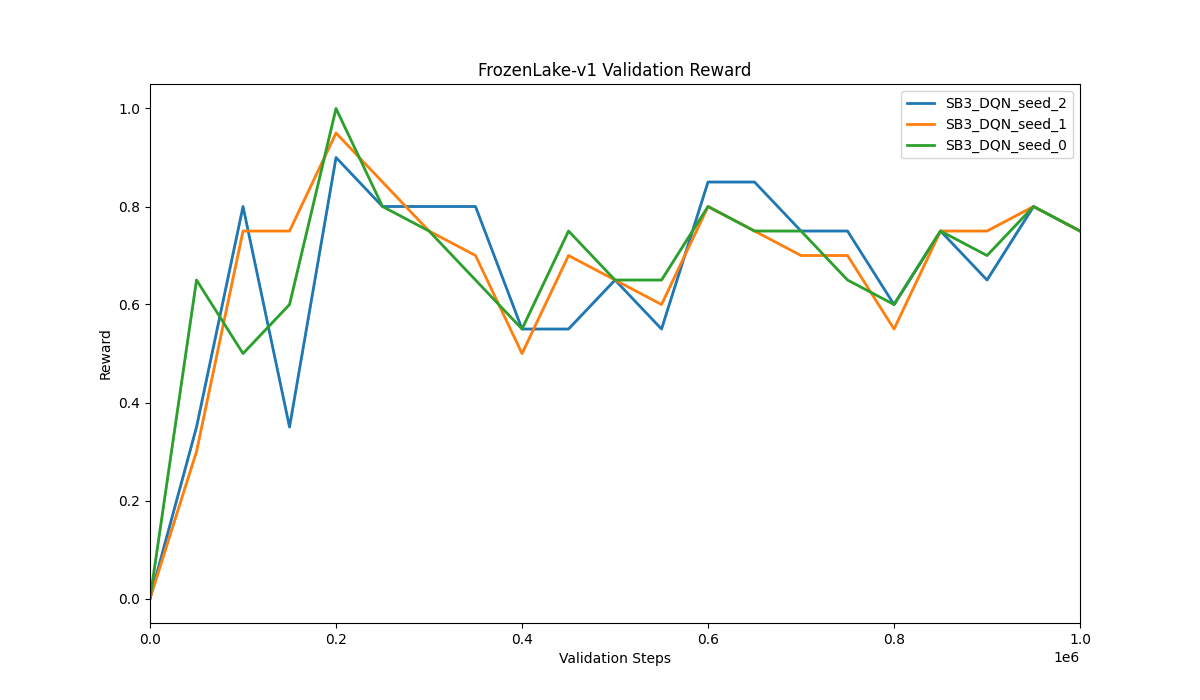
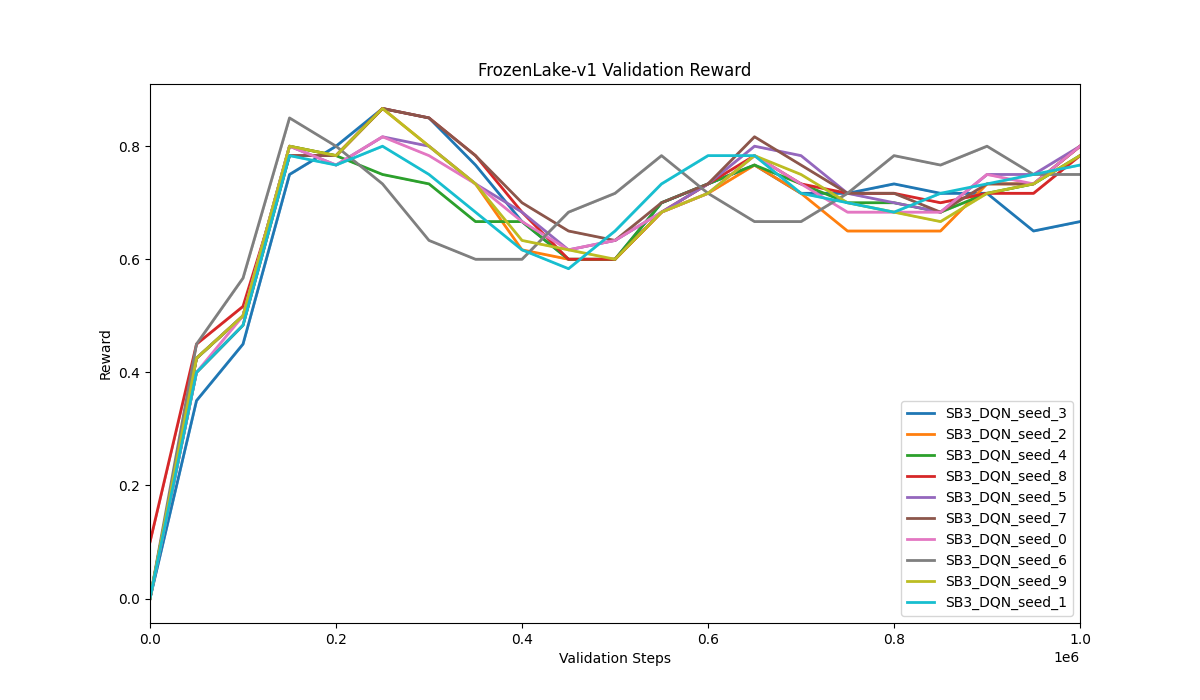
more plots + applied rolling to seed plots

diff --git a/src/plot_results.py b/src/plot_results.py
@@ -142,55 +142,73 @@ def load_csvs(
     return results_to_plot
 
 
-def load_seeds(base_dir, algo_name, load_train_results=False):
+def load_seeds(base_dir, algo_name, load_train_results=False, apply_rolling=True):
     seeds_dir = f"{base_dir}/{algo_name}/seeds"
-    results_to_plot = {}
+    results_to_plot = dict[str, tuple[pd.DataFrame, pd.DataFrame]]()
+
     for seed in os.listdir(seeds_dir):
         path_to_seed_csv = f"{seeds_dir}/{seed}/{'training_results.csv' if load_train_results else 'validation_results.csv'}"
         mean_df = read_csv(path_to_seed_csv)
+
+        if apply_rolling:
+            mean_df = mean_df.rolling(window=3, min_periods=1).mean()
+
         # This is a hack but it works: create a second df where every col except training steps is 0
         # When we plot this using plot_results it wont have the highlighted interval
         std_df = mean_df.copy()
         std_df[mean_df.columns[0]] = 0
         std_df[mean_df.columns[1]] = 0
         results_to_plot[f"{algo_name}_{seed}"] = (mean_df, std_df)
+
     return results_to_plot
 
 
 def plot_seeds():
-    env_name = "LunarLander-v3"  # just for plot title
+    # env_name = "LunarLander-v3"
+    env_name = "FrozenLake-v1"
+
     base_dir = f"results/{env_name}/1.0M"
-    algo_name = ""
+
+    algo_name = "SB3_DQN"
+
     seeds_save_dir = f"{base_dir}/{algo_name}/_plots"
-    plot_training_results = False  # set false to plot eval results
+
+    plot_training_results = False  # toggle to either to plot eval or train results
+
     results_to_plot = load_seeds(
-        base_dir, algo_name, load_train_results=plot_training_results
+        base_dir,
+        algo_name,
+        load_train_results=plot_training_results,
+        apply_rolling=True,
     )
+
     plot_results(
-        results_to_plot,
+        results_to_plot=results_to_plot,
         save_dir=seeds_save_dir,
         is_training_result=plot_training_results,
         env_name=env_name,
     )
 
 
-def main():
+def main_plots():
     # env_name = "LunarLander-v3"
     env_name = "FrozenLake-v1"
 
     base_dir = f"results/{env_name}/1.0M"
     algos_to_plot = [
-        "Custom_DQN_1qh",
-        "Custom_DQN_3qh",
-        "Custom_DQN_5qh",
+        # "Custom_DQN_1qh",
+        # "Custom_DQN_3qh",
+        # "Custom_DQN_5qh",
         "Custom_DQN_10qh",
-        "SB3_DQN",
-        "RANDOM",
+        # "SB3_DQN",
+        # "RANDOM",
     ]
-    save_dir = f"{base_dir}/_plots"
+
+    # save_dir = f"{base_dir}/_plots"
+    save_dir = f"{base_dir}/_plots_10qh"
 
     plot_training_results = False  # toggle to either to plot eval or train results
-    load_head_results = False  # set True to see head plots
+    load_head_results = True  # set True to see head plots
 
     results_to_plot = load_csvs(
         base_dir,
@@ -208,6 +226,10 @@ def main():
     )
 
 
+def main():
+    # main_plots()
+    plot_seeds()
+
+
 if __name__ == "__main__":
     main()
-    # plot_seeds()
